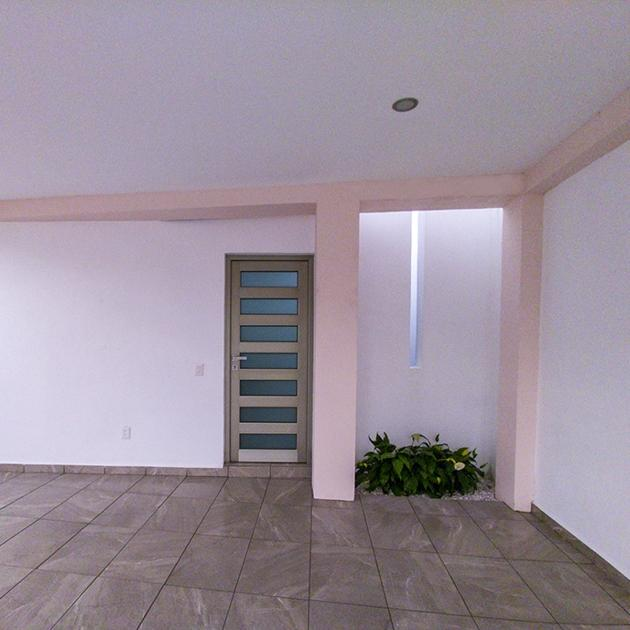
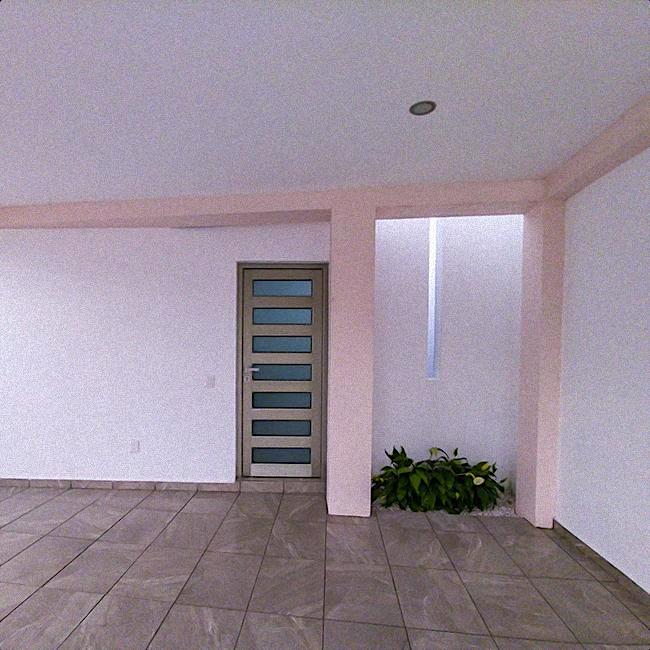
corrección de formato de img en archivos y css

diff --git a/css/dist_style.css b/css/dist_style.css
@@ -205,7 +205,7 @@ a {
 
 .img {
     /*display: block;*/
-    width: 630px;
+    width: 650px;
     max-width: 100%;
     height: auto;
     object-fit: cover;
